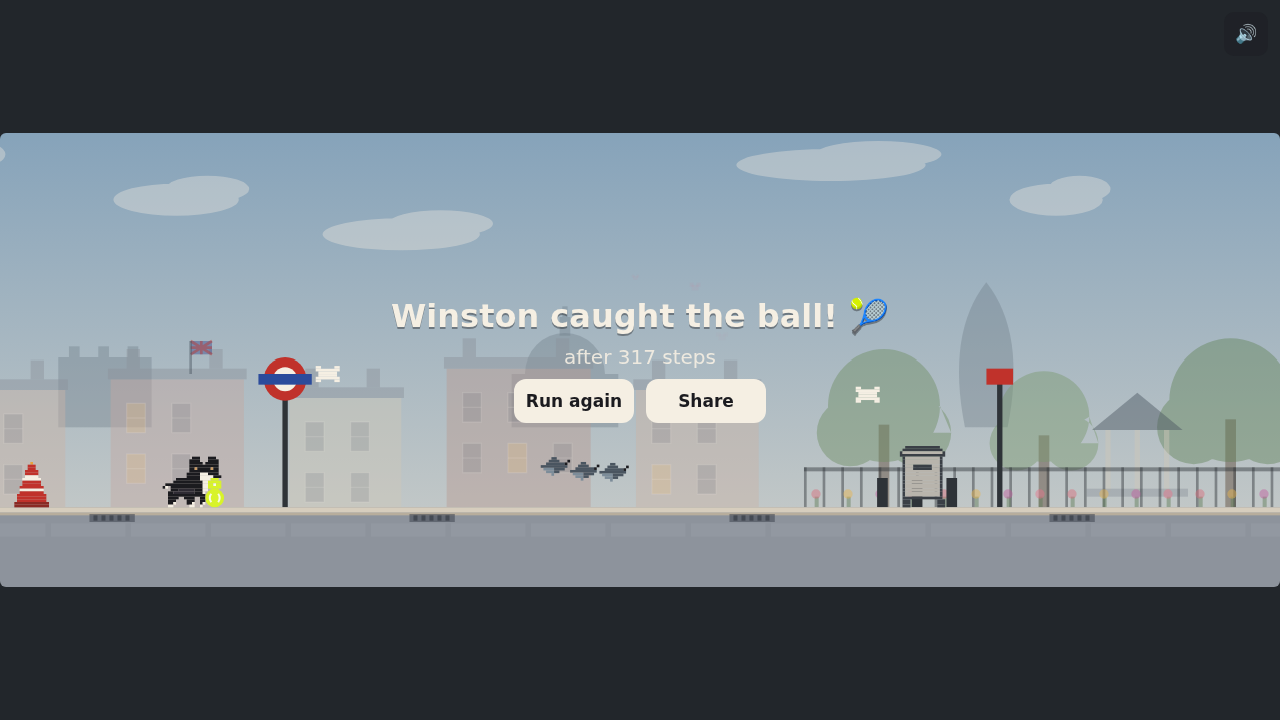
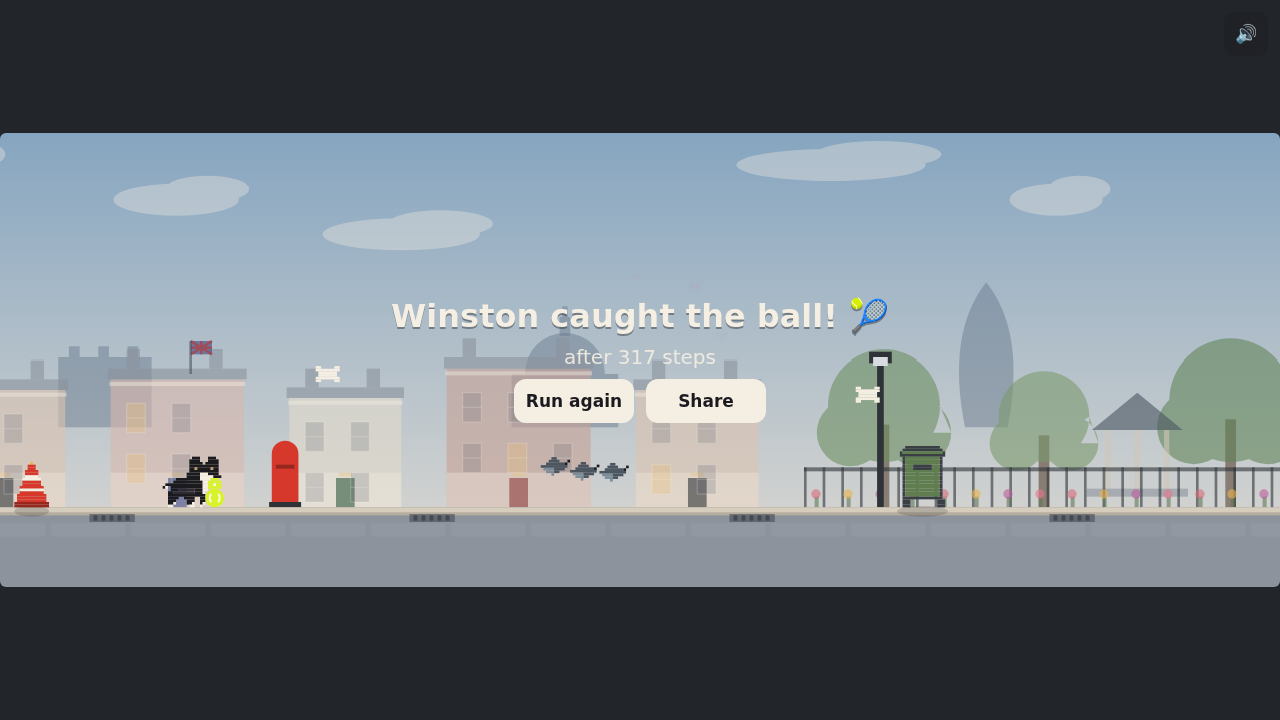
feat: no-flicker halo on second chance, high-contrast obstacles, richer London look

diff --git a/src/world/parallax.js b/src/world/parallax.js
@@ -24,21 +24,31 @@ function drawTerraceRow(ctx, x, duskT) {
   // Georgian terrace: soft pastel fronts, chimney pots, sash windows.
   const baseY = GROUND_Y;
   const houses = [
-    { w: 100, h: 96,  c: '#C4A9A2' },
-    { w: 84,  h: 82,  c: '#CFC7B8' },
-    { w: 108, h: 104, c: '#B79C93' },
-    { w: 92,  h: 88,  c: '#C9B4A6' },
+    { w: 100, h: 96,  c: '#D9B8AE', d: '#3B4B8C' },
+    { w: 84,  h: 82,  c: '#E3DACB', d: '#2E5940' },
+    { w: 108, h: 104, c: '#C7A196', d: '#8C3B3B' },
+    { w: 92,  h: 88,  c: '#DCC3B0', d: '#2E3338' },
   ];
   let hx = x;
   let houseIdx = 0;
   for (const hme of houses) {
     ctx.fillStyle = hme.c;
     ctx.fillRect(hx, baseY - hme.h, hme.w, hme.h);
-    // Roof line + chimney pots
+    // White ground-floor band (classic stucco)
+    ctx.fillStyle = 'rgba(245,239,227,0.55)';
+    ctx.fillRect(hx, baseY - 26, hme.w, 26);
+    // Cornice + roof line + chimney pots
+    ctx.fillStyle = 'rgba(245,239,227,0.7)';
+    ctx.fillRect(hx - 1, baseY - hme.h + 2, hme.w + 2, 3);
     ctx.fillStyle = '#8B939C';
     ctx.fillRect(hx - 2, baseY - hme.h - 8, hme.w + 4, 8);
     ctx.fillRect(hx + 12, baseY - hme.h - 22, 10, 14);
     ctx.fillRect(hx + hme.w - 26, baseY - hme.h - 22, 10, 14);
+    // Front door with fanlight
+    ctx.fillStyle = hme.d;
+    ctx.fillRect(hx + hme.w / 2 - 7, baseY - 22, 14, 22);
+    ctx.fillStyle = 'rgba(232,190,120,0.6)';
+    ctx.fillRect(hx + hme.w / 2 - 5, baseY - 26, 10, 3);
     // Sash windows — lit pattern is fixed per window so nothing flickers
     for (let row = 0; row < 2; row++) {
       for (let col = 0; col < Math.floor(hme.w / 34); col++) {
@@ -179,6 +189,18 @@ function drawFurniture(ctx, x, variant, t, duskT) {
       ctx.fillRect(x + 82, baseY - 104, 20, 12);
       break;
     }
+    case 5: { // Royal Mail pillar box
+      ctx.fillStyle = '#D6392C';
+      ctx.fillRect(x + 6, baseY - 40, 20, 40);
+      ctx.beginPath();
+      ctx.arc(x + 16, baseY - 40, 10, Math.PI, 0);
+      ctx.fill();
+      ctx.fillStyle = '#96271F';
+      ctx.fillRect(x + 9, baseY - 32, 14, 3);
+      ctx.fillStyle = '#2E3338';
+      ctx.fillRect(x + 4, baseY - 4, 24, 4);
+      break;
+    }
     case 4: { // Park bench
       ctx.fillStyle = '#4C6B45';
       for (let i = 0; i < 4; i++) ctx.fillRect(x + i * 3, baseY - 40 + i * 3, 44, 2);
@@ -235,7 +257,7 @@ export class Parallax {
     // Layer 3: mid buildings, with park stretches every third tile
     const midOff = ((this.scroll * 0.35) % MID_TILE + MID_TILE) % MID_TILE;
     ctx.save();
-    ctx.globalAlpha = 0.45;
+    ctx.globalAlpha = 0.6;
     for (let i = -1; i <= Math.ceil(LOGICAL_WIDTH / MID_TILE) + 1; i++) {
       const worldIdx = Math.floor((this.scroll * 0.35) / MID_TILE) + i;
       const kind = ((worldIdx % 3) + 3) % 3;
@@ -246,11 +268,11 @@ export class Parallax {
     ctx.restore();
 
     // Layer 4: street furniture
-    const fOff = ((this.scroll * 0.75) % (FURN_TILE * 5) + FURN_TILE * 5) % (FURN_TILE * 5);
+    const fOff = ((this.scroll * 0.75) % (FURN_TILE * 6) + FURN_TILE * 6) % (FURN_TILE * 6);
     for (let i = -1; i <= Math.ceil(LOGICAL_WIDTH / FURN_TILE) + 4; i++) {
       const worldIdx = Math.floor((this.scroll * 0.75) / FURN_TILE) + i;
       const x = i * FURN_TILE - (fOff % FURN_TILE);
-      const variant = ((worldIdx % 5) + 5) % 5;
+      const variant = ((worldIdx % 6) + 6) % 6;
       if (x > -120 && x < LOGICAL_WIDTH + 120) drawFurniture(ctx, x, variant, t, duskT);
     }
 

diff --git a/src/game.js b/src/game.js
@@ -445,9 +445,17 @@ export class Game {
     let anim = null;
     if (this.state === 'TITLE' || this.state === 'COUNTDOWN') anim = 'idle';
     if (this.state === 'DYING' || this.state === 'GAME_OVER') anim = 'catch';
-    // Blink during second-chance invulnerability
-    const blinking = this.invulnT > 0 && Math.floor(this.invulnT * 10) % 2 === 0;
-    if (!blinking) this.winston.render(ctx, alpha, speedFrac, this.state, anim);
+    // Soft protective halo during second-chance invulnerability (no flicker)
+    if (this.invulnT > 0) {
+      ctx.save();
+      ctx.globalAlpha = 0.25 * Math.min(1, this.invulnT / 0.4);
+      ctx.fillStyle = '#F2C464';
+      ctx.beginPath();
+      ctx.ellipse(this.winston.x + 23, this.winston.y - 20, 34, 28, 0, 0, Math.PI * 2);
+      ctx.fill();
+      ctx.restore();
+    }
+    this.winston.render(ctx, alpha, speedFrac, this.state, anim);
     this.ball.render(ctx);
 
     this.particles.render(ctx);

diff --git a/src/sprites/palette.js b/src/sprites/palette.js
@@ -10,9 +10,9 @@ export const PALETTE = {
   brick:    '#9A4B3F',
   slate:    '#4A5560',
   stone:    '#D6CDBD',
-  sky1:     '#BFD4DE', // horizon
-  sky2:     '#8FAFC4', // zenith
-  red:      '#C0322B', // phone box, bus
+  sky1:     '#D3E2E8', // horizon
+  sky2:     '#8FB2CC', // zenith
+  red:      '#D6392C', // phone box, bus
   black:    '#232326', // taxi
   moss:     '#5E7A55',
   wet:      '#7C8C99', // puddles, rain
@@ -35,9 +35,9 @@ export const CHAR_MAP = {
   M: PALETTE.moss,
   W: PALETTE.wet,
   D: PALETTE.black,
-  G: '#B8B4AC', // grey (bin, squirrel)
-  X: '#8A2A24', // dark red shade
-  Y: '#E8A33D', // amber (windows, cone stripe)
+  G: '#5F7D4F', // green (litter bin)
+  X: '#96271F', // dark red shade
+  Y: '#F2B33D', // amber (windows, cone stripe)
   Z: '#3A3F46', // dark slate shade
 };
 

diff --git a/src/entities/obstacle.js b/src/entities/obstacle.js
@@ -68,11 +68,16 @@ export class Obstacle {
     const s = C.PIXEL_SCALE;
     switch (this.type) {
       case 'cone':
+        drawShadow(ctx, x, this.w);
         drawMatrix(ctx, CONE, x, this.y, s);
         if (this.pair) drawMatrix(ctx, CONE, x + this.def.w + 14, this.y, s);
         break;
-      case 'phonebox': drawMatrix(ctx, PHONEBOX, x, this.y, s); break;
+      case 'phonebox':
+        drawShadow(ctx, x, this.w);
+        drawMatrix(ctx, PHONEBOX, x, this.y, s);
+        break;
       case 'bin':
+        drawShadow(ctx, x, this.w);
         drawMatrix(ctx, BIN, x, this.y, s);
         break;
       case 'pigeons': {

diff --git a/src/world/skyline.js b/src/world/skyline.js
@@ -114,8 +114,8 @@ export const SKYLINE_TOTAL_W = LANDMARKS.length * SEGMENT_W; // 3400px, >90s at 
 
 export function renderSkyline(ctx, scrollX, t, darken) {
   ctx.save();
-  ctx.globalAlpha = 0.35;
-  ctx.fillStyle = darken ? '#4A545E' : '#6B7885';
+  ctx.globalAlpha = 0.45;
+  ctx.fillStyle = darken ? '#46525E' : '#63758A';
   ctx.strokeStyle = ctx.fillStyle;
   const offset = ((scrollX % SKYLINE_TOTAL_W) + SKYLINE_TOTAL_W) % SKYLINE_TOTAL_W;
   for (let i = -1; i <= Math.ceil(LOGICAL_WIDTH / SEGMENT_W) + 1; i++) {

diff --git a/styles.css b/styles.css
@@ -60,6 +60,11 @@ canvas {
   padding: 16px;
 }
 .overlay[hidden] { display: none; }
+.overlay:not([hidden]) { animation: overlayIn 0.4s ease; }
+@keyframes overlayIn {
+  from { opacity: 0; }
+  to { opacity: 1; }
+}
 
 .overlay h1 {
   font-size: clamp(28px, 6vw, 52px);
